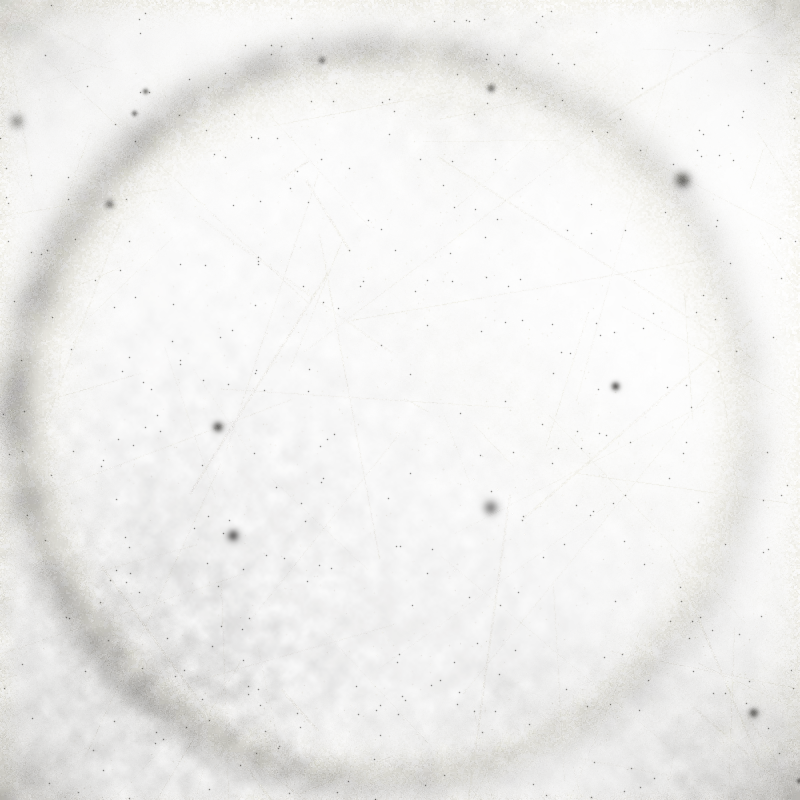
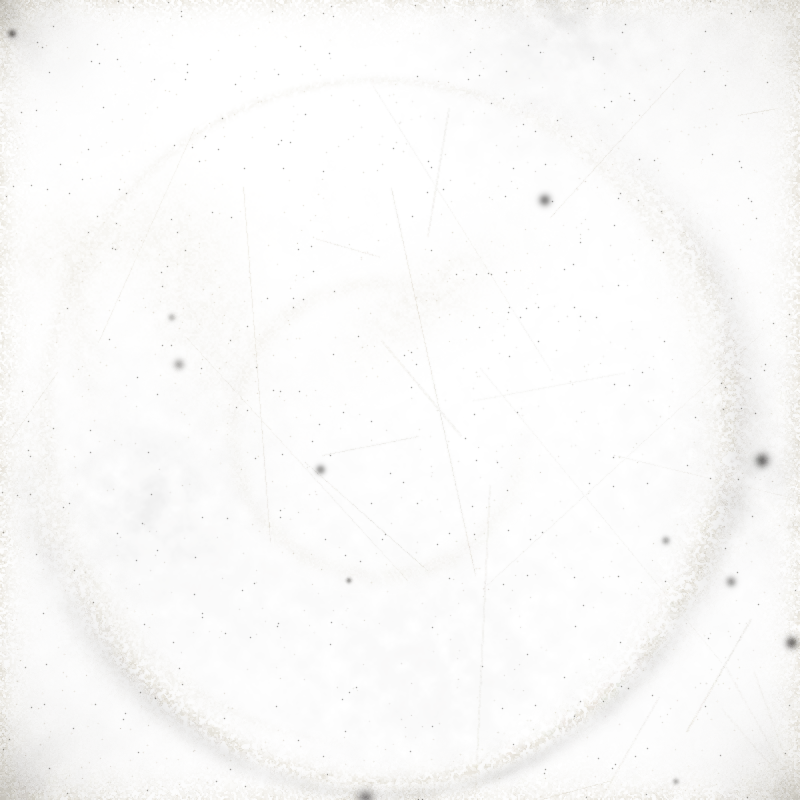
40: thin, grainy ring wear near the sleeve edge
A 12-inch disc in a 12¼-inch sleeve: the ring sits close to the edge,
a few pixels wide, made of grains rather than a line, with density that
comes and goes around the circumference. Edge wear is speckled too.

Claude-Session: https://claude.ai/code/session_01PbqXtG5SizYecEWh39Pkkj

diff --git a/scripts/make-wear.py b/scripts/make-wear.py
@@ -56,23 +56,24 @@ def make(slug, year=None):
             cover += np.clip(1 - (d - span / 2) / (span * .3), 0, 1) * (1 if i == 0 else U(.4, .9))
         return np.clip(cover, 0, 1)
     if P(.35 + .5 * min(1, age / 35)):
-        cx, cy = S * U(.46, .54), S * U(.47, .55); R0 = S * U(.42, .47)
+        # A 12" disc in a 12¼" sleeve: the ring sits close to the edge. Thin, and made of grains.
+        cx, cy = S * U(.485, .515), S * U(.49, .52); R0 = S * U(.455, .485)
         r = np.hypot(xx - cx, yy - cy); ang = np.arctan2(yy - cy, xx - cx)
         ph1, ph2, ph3 = U(0, 6.28), U(0, 6.28), U(0, 6.28)
-        R = R0 * (1 + U(.01, .035) * np.sin(ang + ph1) + U(.005, .02) * np.sin(3 * ang + ph2))
-        w = S * U(.01, .03) * (.55 + .9 * (.5 + .5 * np.sin(2 * ang + ph3)))
-        band = np.exp(-((r - R) / w) ** 2) + .3 * np.exp(-((r - R) / (w * 2.8)) ** 2)
+        R = R0 * (1 + U(.006, .02) * np.sin(ang + ph1) + U(.003, .012) * np.sin(3 * ang + ph2))
+        w = S * U(.004, .011) * (.6 + .8 * (.5 + .5 * np.sin(2 * ang + ph3)))
+        band = np.exp(-((r - R) / w) ** 2) + .12 * np.exp(-((r - R) / (w * 3)) ** 2)
         rest = U(math.pi * .15, math.pi * .85) if P(.7) else U(0, 2 * math.pi)   # low on the sleeve, mostly
-        lobe = .25 + .75 * (.5 + .5 * np.cos(ang - rest)) ** U(1, 2.5)
-        cover = arc_cover(ang, int(U(1, 4)), rest) * (.35 + .65 * noise(60))
-        mottle = (.4 + noise(24) * 1.0) * (noise(3, 2) > U(.3, .5))
-        ring = band * lobe * cover * mottle
-        light += blur(ring, .5) * U(.9, 1.4)
-        dark += np.exp(-((r - R * 1.035) / (w * 1.5)) ** 2) * lobe * cover * (.3 + noise(40) * .6) * U(.15, .4)
+        lobe = .3 + .7 * (.5 + .5 * np.cos(ang - rest)) ** U(1, 2.5)
+        cover = arc_cover(ang, int(U(1, 4)), rest) * (.3 + .7 * noise(50))
+        grain = (rng.random((S, S)) > U(.45, .62)).astype(np.float32) * (.5 + noise(6, 2))   # dots, not a line
+        ring = band * lobe * cover * grain * (noise(3, 2) > U(.2, .4))
+        light += ring * U(1.2, 1.8)
+        dark += np.exp(-((r - R * 1.02) / (w * 2)) ** 2) * lobe * cover * (.3 + noise(40) * .6) * U(.1, .3)
         if P(.3):                                                        # a second, offset arc from an inner sleeve
             R2 = R0 * U(.92, .99); cx2, cy2 = cx + S * U(-.04, .04), cy + S * U(-.04, .04)
             r2 = np.hypot(xx - cx2, yy - cy2); ang2 = np.arctan2(yy - cy2, xx - cx2)
-            light += blur(np.exp(-((r2 - R2) / (w * .8)) ** 2) * arc_cover(ang2, int(U(1, 3)), U(0, 6.28)) * (.3 + noise(26) * .7) * (noise(3, 2) > .35), .6) * U(.3, .7)
+            light += np.exp(-((r2 - R2) / (w * .8)) ** 2) * arc_cover(ang2, int(U(1, 3)), U(0, 6.28)) * (rng.random((S, S)) > .55) * (.3 + noise(26) * .7) * (noise(3, 2) > .35) * U(.5, 1.0)
         if P(.35):                                                       # faint spindle/label arc
             light += np.exp(-((r - S * U(.15, .19)) / (S * .01)) ** 2) * arc_cover(ang, 1, U(0, 6.28)) * noise(24) * U(.15, .35)
 
@@ -82,8 +83,8 @@ def make(slug, year=None):
     edge = np.zeros_like(light)
     for d, wt in zip([dl, dr_, dt, db], wts):
         edge += np.exp(-d / (S * U(.006, .02))) * wt
-    edge = edge * (.4 + noise(12) * 1.1) * (noise(2, 2) > U(.3, .5))
-    light += blur(edge, .4) * U(.9, 1.4)
+    edge = edge * (.4 + noise(12) * 1.1) * (noise(2, 2) > U(.3, .5)) * (.5 + .5 * (rng.random((S, S)) > .4))
+    light += edge * U(1.0, 1.5)
 
     # Corners: blunted, with creases fanning out of the worst ones.
     corners = [(0, 0), (S, 0), (0, S), (S, S)]
